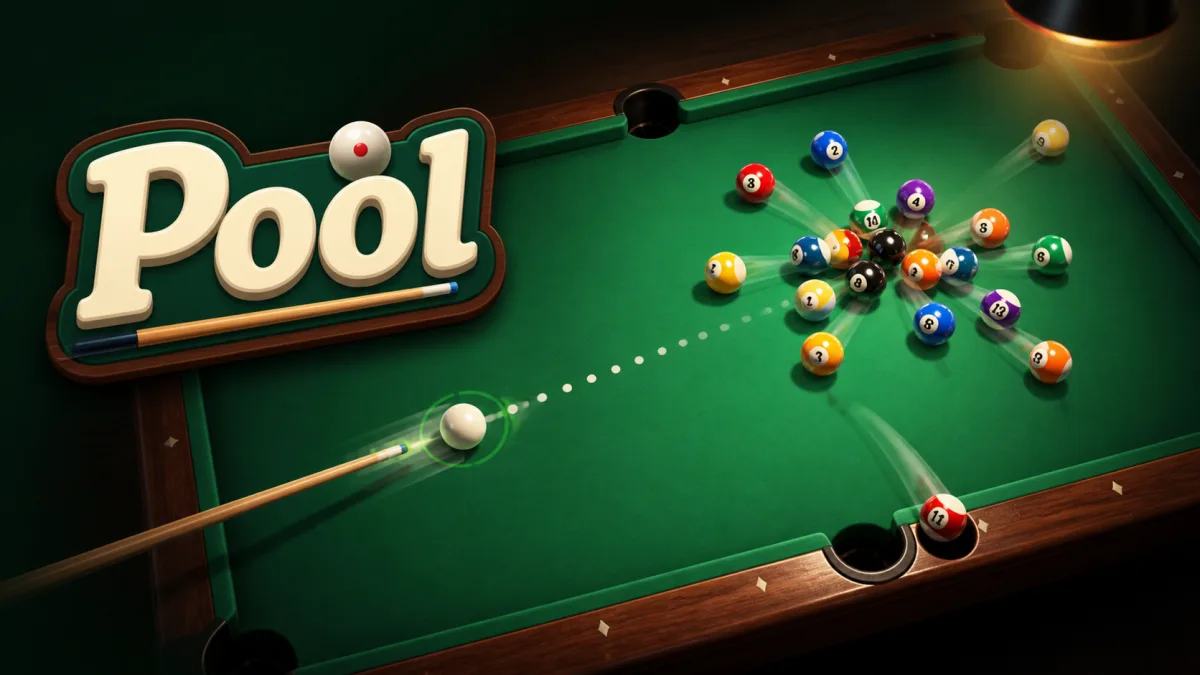
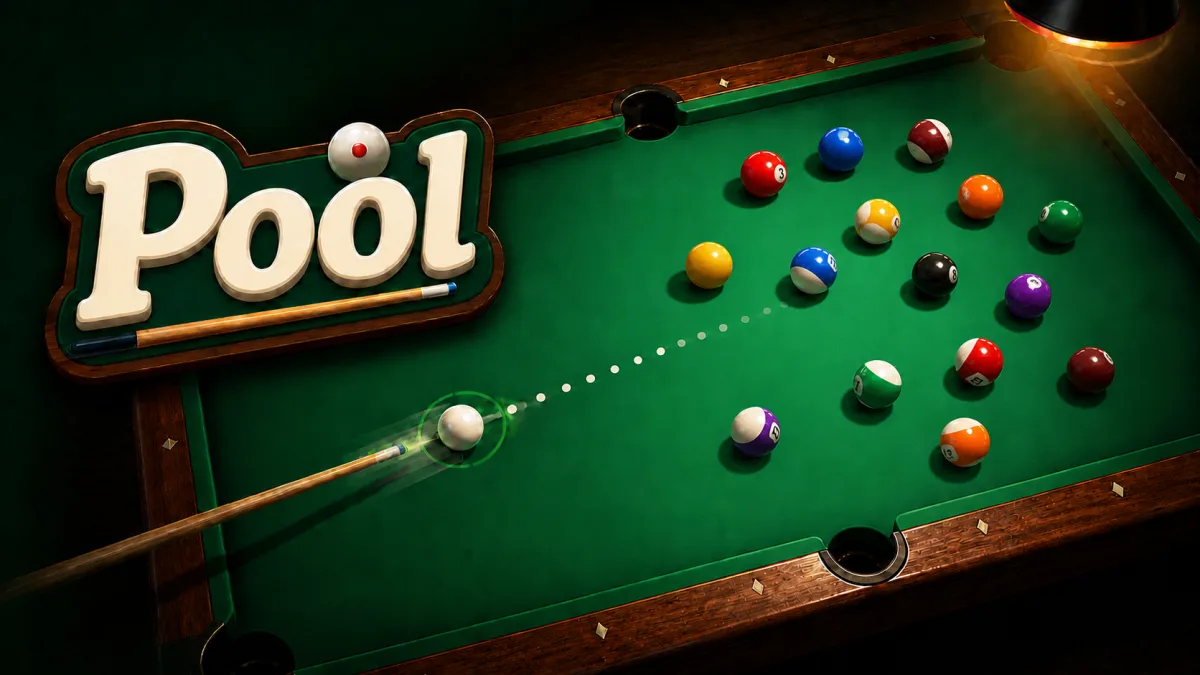
Featured art: two new toys, new Pool, and the originals archived
Perfect Timing and Random Maze join the home spotlight rotation, taking it
from 27 to 29. Pool's art is replaced with a new piece, so the cache-bust
on every featured URL moves to v=2 to reach anyone holding the old one.

The full-resolution originals now live in assets/featured/_sources/, named
by registry slug so source and output line up. The first batch was very
nearly lost to a cleared desktop; that is the whole reason this folder
exists. .vercelignore keeps it out of the deploy, so 49MB of PNG costs the
live site nothing.

Word Kraven has no source here - its original was gone before the folder
existed, and the 1200x675 webp is all that survives.

Verified: all 29 manifest entries resolve to a live registry toy and a
200 response, each new image decodes at 1200x675 and paints at ratio
1.778, and the hub pages, store and search are unchanged.

diff --git a/assets/main.js b/assets/main.js
@@ -509,12 +509,12 @@ let featuredTool = null;
 // spotlight rotates through these — one per page load — instead of always
 // showing the newest toy. Add a slug here only once its art exists.
 const FEATURED_ART = [
-  "accretion", "air-hockey", "alpenglow", "bowling", "brick-smasher", "darts",
-  "deep-descent", "deep-hollow", "dot-loop", "five-second-game", "mini-golf",
-  "nova-coil", "paper-plane", "perfect-circle", "pool", "puffling",
-  "shuriken-night", "skee-ball", "sky-fortress", "slice-it", "spelling-blocks",
-  "stack-tower", "tossing-cards", "trail-game", "trio", "twisty-cube",
-  "word-kraven"
+  "accretion", "air-hockey", "alpenglow", "bowling", "brick-smasher",
+  "darts", "deep-descent", "deep-hollow", "dot-loop", "five-second-game",
+  "mini-golf", "nova-coil", "paper-plane", "perfect-circle",
+  "perfect-timing", "pool", "puffling", "random-maze", "shuriken-night",
+  "skee-ball", "sky-fortress", "slice-it", "spelling-blocks", "stack-tower",
+  "tossing-cards", "trail-game", "trio", "twisty-cube", "word-kraven"
 ];
 
 function shuffleInPlace(arr, rand) {
@@ -1292,7 +1292,7 @@ function renderHomeHero() {
       prev.removeAttribute("data-slug");
       prev.classList.add("card__preview--art");
       prev.style.background =
-        '#07070b url("/assets/featured/' + t.slug + '.webp?v=1") center / cover no-repeat';
+        '#07070b url("/assets/featured/' + t.slug + '.webp?v=2") center / cover no-repeat';
       // the art carries the toy's own logo, so the heading would just repeat it:
       // keep it for screen readers only and let the panel re-space itself
       sec.classList.add("home-featured--art");

diff --git a/all-toys/audio/index.html b/all-toys/audio/index.html
@@ -295,7 +295,7 @@
       </div>
     </footer>
 
-    <script src="../../assets/main.js?v=101" defer></script>
+    <script src="../../assets/main.js?v=102" defer></script>
     <script src="../../assets/theme.js?v=8" defer></script>
     <script src="../../assets/tickets.js?v=20" defer></script>
     <script src="../../assets/prizes.js?v=1" defer></script>

diff --git a/all-toys/game/index.html b/all-toys/game/index.html
@@ -295,7 +295,7 @@
       </div>
     </footer>
 
-    <script src="../../assets/main.js?v=101" defer></script>
+    <script src="../../assets/main.js?v=102" defer></script>
     <script src="../../assets/theme.js?v=8" defer></script>
     <script src="../../assets/tickets.js?v=20" defer></script>
     <script src="../../assets/prizes.js?v=1" defer></script>

diff --git a/all-toys/simulation/index.html b/all-toys/simulation/index.html
@@ -295,7 +295,7 @@
       </div>
     </footer>
 
-    <script src="../../assets/main.js?v=101" defer></script>
+    <script src="../../assets/main.js?v=102" defer></script>
     <script src="../../assets/theme.js?v=8" defer></script>
     <script src="../../assets/tickets.js?v=20" defer></script>
     <script src="../../assets/prizes.js?v=1" defer></script>

diff --git a/all-toys/utility/index.html b/all-toys/utility/index.html
@@ -295,7 +295,7 @@
       </div>
     </footer>
 
-    <script src="../../assets/main.js?v=101" defer></script>
+    <script src="../../assets/main.js?v=102" defer></script>
     <script src="../../assets/theme.js?v=8" defer></script>
     <script src="../../assets/tickets.js?v=20" defer></script>
     <script src="../../assets/prizes.js?v=1" defer></script>

diff --git a/all-toys/visual/index.html b/all-toys/visual/index.html
@@ -295,7 +295,7 @@
       </div>
     </footer>
 
-    <script src="../../assets/main.js?v=101" defer></script>
+    <script src="../../assets/main.js?v=102" defer></script>
     <script src="../../assets/theme.js?v=8" defer></script>
     <script src="../../assets/tickets.js?v=20" defer></script>
     <script src="../../assets/prizes.js?v=1" defer></script>

diff --git a/all-toys/wellness/index.html b/all-toys/wellness/index.html
@@ -295,7 +295,7 @@
       </div>
     </footer>
 
-    <script src="../../assets/main.js?v=101" defer></script>
+    <script src="../../assets/main.js?v=102" defer></script>
     <script src="../../assets/theme.js?v=8" defer></script>
     <script src="../../assets/tickets.js?v=20" defer></script>
     <script src="../../assets/prizes.js?v=1" defer></script>

diff --git a/all-toys/index.html b/all-toys/index.html
@@ -295,7 +295,7 @@
       </div>
     </footer>
 
-    <script src="../assets/main.js?v=101" defer></script>
+    <script src="../assets/main.js?v=102" defer></script>
     <script src="../assets/theme.js?v=8" defer></script>
     <script src="../assets/tickets.js?v=20" defer></script>
     <script src="../assets/prizes.js?v=1" defer></script>

diff --git a/index.html b/index.html
@@ -289,7 +289,7 @@
       </div>
     </footer>
 
-    <script src="assets/main.js?v=101" defer></script>
+    <script src="assets/main.js?v=102" defer></script>
     <script src="assets/theme.js?v=8" defer></script>
     <script src="assets/tickets.js?v=20" defer></script>
     <script src="assets/prizes.js?v=1" defer></script>

diff --git a/assets/featured/_sources/README.md b/assets/featured/_sources/README.md
@@ -1,0 +1,15 @@
+# Featured key art — sources
+
+The full-resolution originals (1672x941 PNG) behind `assets/featured/<slug>.webp`.
+They live here so a future re-crop or re-encode never depends on a file still
+sitting on someone's desktop — which is exactly how the first set was nearly lost.
+
+Named by registry slug, so source and output line up. Regenerate one with:
+
+    cwebp -q 82 -resize 1200 675 _sources/<slug>.png -o <slug>.webp
+
+`word-kraven.webp` has no source here; its original was gone before this folder
+existed. Everything else round-trips.
+
+Not deployed — `.vercelignore` keeps this directory out of the build, so it costs
+the live site nothing.
